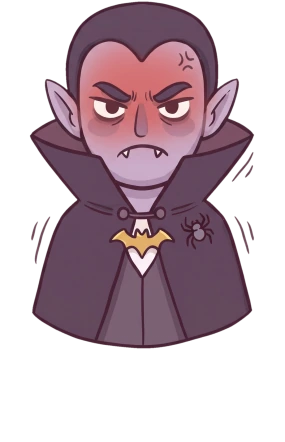
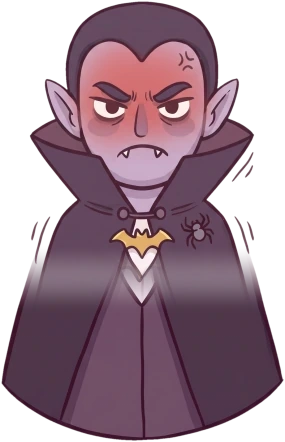
Vampire keeps his full body when uneasy or angry (lower body completed from the happy picture)

Changed region(s): [[0.0, 0.5882, 1.0, 1.0]]

diff --git a/CLAUDE.md b/CLAUDE.md
@@ -37,7 +37,7 @@ Tüm sayılar tek yerde: `src/data/gameConfig.ts` (`CONFIG`).
 - **Ödeme:** doğru cupcake $5 + ruh haline göre bahşiş (mutlu +5, huzursuz +2, sinirli 0). Yanlış cupcake yok olur, müşterinin sabrı %20 düşer.
 - **Gün:** 3 koltuk. 4 gün: her gün 90 sn (`DayConfig.length`, gün başına ayarlanabilir; ekip 1,5 dk istedi), hedef $22/34/42/48 (süreyle orantılı düşürüldü), müşteri aralığı 22/18/15/13 sn, sabır 80/70/62/56 sn, aynı anda en fazla 2/3/3/3 müşteri (`seats`); tezgâh doluyken yeni müşteri yer açıldıktan sonra aralığın yarısı kadar bekler, özel canavar normal müşterinin sırasını alır (ekip: müşteriler art arda geliyordu), ruh hali eşikleri mutlu > %50, huzursuz > %20 (ekip: müşteriler çok çabuk sinirleniyordu) (ekip isteğiyle tüm günler kolaylaştırıldı: müşteriler daha seyrek, hedefler buna göre düşük). 1. gün ilk kez oynayanlar için kolaylaştırıldı (düşük hedef, yavaş ve sabırlı müşteriler); sabırlar tüm günlerde ~%25 uzatıldı (müşteriler çabuk sinirleniyordu); tek fırınla başlanıyor. Yıldız: hedefin %100/130/160'ı; 3. yıldız alınınca gün hemen biter ("3 STARS!", ekip isteği). Özel canavarların geliş anı günün uzunluğuna oranla seçilir (hırsız %25–80, diğerleri %12–75). Para sadece hedefi geçilen günlerde cüzdana eklenir; başarısız gün tekrarlanır.
 - **Karakterler:** müşteriler ekibin çizimleri (`src/assets/chars/`, tek sayfadan kesildi): normal = zombi, mumya, kurt adam, cadı; özel = vampir, hayalet. `MonsterDef.sprite` dolu olan karakter resimle gösterilir (çizim alanları yalnızca yedek). Hırsız ve güvenlik görevlisi hâlâ kodla çizilir. Resim yüz ifadesi değiştiremediği için ruh hali efektlerle gösterilir (`MonsterView.applyPictureMood`): mutlu = arada zıplar; huzursuz = ter damlası, sabırsız sallanma; kızgın = kafada atan kızgınlık işareti, buhar ve titreme. Ayrıca karakter mutlu eşiğinin altına inince sabırla birlikte yavaş yavaş kırmızılaşır (`setRedness`, `Customer.update`). SVG karakterler denendi, ekip beğenmedi; kullanılmıyor. Yeni karakter = resmi `src/assets/chars/` + `CHAR_SPRITES` + `monsters.ts` kaydı.
-- **Yüz ifadeleri (resimli karakterler, ekibin resimleri):** her karakterin 3 resmi var: mutlu (`zombie.webp`), huzursuz (`zombie_neutral.webp`), kızgın (`zombie_angry.webp`), `src/assets/chars/` altında. Ekip hazırladı; arka plan şeffaflaştırılıp üç yüz birbirine (kafa/yüz hizasına göre) hizalandı, hepsi aynı çerçevede ve 2 kat çözünürlükte (`CHAR_TEX_K = 2`). Her karakterin çerçevesi (`ox/oy` çapa, `bodyW/bodyH`) `assets.ts` `CHAR_FRAME` tablosunda. Ruh hali değişince `MonsterView.showFace` resmi 0,2 sn'de yumuşakça diğerine geçirir; kırmızılaşma (`setRedness`) yalnızca mutlu/huzursuz resimlere uygulanır (kızgın resim zaten kırmızı). Efektler: mutlu = zıplama, huzursuz = sinirli sallanma, kızgın = buhar + titreme (ter damlası ve kızgınlık işareti kaldırıldı, resimde var). Kurt adamın kızgın resminde kuyruk yoktu, mutlu resimden kuyruk eklendi. Eski kodla çizilen yüz (`faceOverlay.ts`) kaldırıldı. Yeni karakter = 3 resim + `CHAR_SPRITES` + `CHAR_FRAME` + `monsters.ts`. Bu resimler AI ile üretildiği için vampirin kızgın resminde pelerin biraz farklı (yüz hizalı, vücut tam oturmuyor).
+- **Yüz ifadeleri (resimli karakterler, ekibin resimleri):** her karakterin 3 resmi var: mutlu (`zombie.webp`), huzursuz (`zombie_neutral.webp`), kızgın (`zombie_angry.webp`), `src/assets/chars/` altında. Ekip hazırladı; arka plan şeffaflaştırılıp üç yüz birbirine (kafa/yüz hizasına göre) hizalandı, hepsi aynı çerçevede ve 2 kat çözünürlükte (`CHAR_TEX_K = 2`). Her karakterin çerçevesi (`ox/oy` çapa, `bodyW/bodyH`) `assets.ts` `CHAR_FRAME` tablosunda. Ruh hali değişince `MonsterView.showFace` resmi 0,2 sn'de yumuşakça diğerine geçirir; kırmızılaşma (`setRedness`) yalnızca mutlu/huzursuz resimlere uygulanır (kızgın resim zaten kırmızı). Efektler: mutlu = zıplama, huzursuz = sinirli sallanma, kızgın = buhar + titreme (ter damlası ve kızgınlık işareti kaldırıldı, resimde var). Kurt adamın kızgın resminde kuyruk yoktu, mutlu resimden kuyruk eklendi. Eski kodla çizilen yüz (`faceOverlay.ts`) kaldırıldı. Yeni karakter = 3 resim + `CHAR_SPRITES` + `CHAR_FRAME` + `monsters.ts`. Vampirin huzursuz/kızgın resimlerinde gövde kısa çizilmişti (sinirlenince alttan kesilmiş görünüyordu); alt gövde mutlu resimden yumuşak geçişle tamamlandı (kızgında broş hizasında hafif geçiş izi var).
 - **İlk sipariş rehberi (ilk gün, bir kez):** `NightScene.tutorialStep` + `src/objects/Tutorial.ts`. İlk müşterinin siparişi için oklar sırayla gösterir: siparişi oku → hamur → pişirme (yanmadan al) → tabağa → krema → süs → müşteriye ver; yanık/yanlış kek için çöp oku. Adım, masada ne olduğuna bakılarak seçilir (olay sayılmaz), yani oyuncu başka bir şey yaparsa rehber uyum sağlar. Bir adım, söylediği iş yapılır yapılmaz kaybolur; yazılar kendi kendine kaybolmaz (örn. fırında 'baking' yazısı pişince 'Ready'ye döner). Rehber sürerken ilk müşterinin sabrı ve gün sayacı durur, yeni müşteri gelmez (`Customer.frozen`), fırınlar yarı hızda çalışır (yazılar okunabilsin diye). Oklu yazı üstte yer yoksa (üst çubuk kapatır) okun yanına konur. İlk müşteri servis edilince biter ve `seenCards`'a `'tutorial'` yazılır (bir daha gösterilmez; "New game" sıfırlar). Metinler `T.tut*`.
 - **Hırsız (ekibin çizimi):** `src/assets/chars/thief.webp` (ayakta), `thief_hold.webp` (elinde cupcake; resimdeki cupcake silindi), `thief_hand.webp` (sadece el, cupcake'in üstüne biner). `objects/Thief.ts` artık `MonsterView` değil resimle çalışır (`THIEF_KEYS`/`THIEF_FRAME` `assets.ts`'te). Hırsız (ekip isteği) yalnızca hazır tepside cupcake beklerken gelir ve vampirle aynı anda gelmez (vampir de hırsız giderken beklenir); müşteriler gibi tezgâhın arkasına gelir: boş bir müşteri yerini seçer (`NightScene.thiefSeat`, o sırada oraya müşteri oturmaz; yer yoksa açılana kadar bekler), sağdan sinsice yürür, durup etrafa bakar, sonra tepsideki cupcake'leri kapar (`holdCupcake`, ilki elinde kodla çizilir) ve en yakın kenardan kaçar; tepsi o arada boşaldıysa yeni cupcake gelene kadar bekler, eli boş gitmez; güvenlik varsa yakalanır. Bacakları tezgâhın arkasında kalır (`HEIGHT` 270, `FEET_BELOW_COUNTER`). Tarayıcıda denendi. Nasıl Oynanır ekranında da bu resim var.
 - **Özel canavarlar** (her gün her açık olan en az bir kez gelir): vampir (gün 2+, ısırınca 5 sn tıklama kilidi + kırmızı ekran, fırın çalışır), hayalet (gün 2+, keki düşürür ama tam öder, sabrı yavaş azalır), hırsız (gün 3+, tezgâhta boş bir yere gelir, tepsideki tüm hazır kekleri çalıp kaçar).
